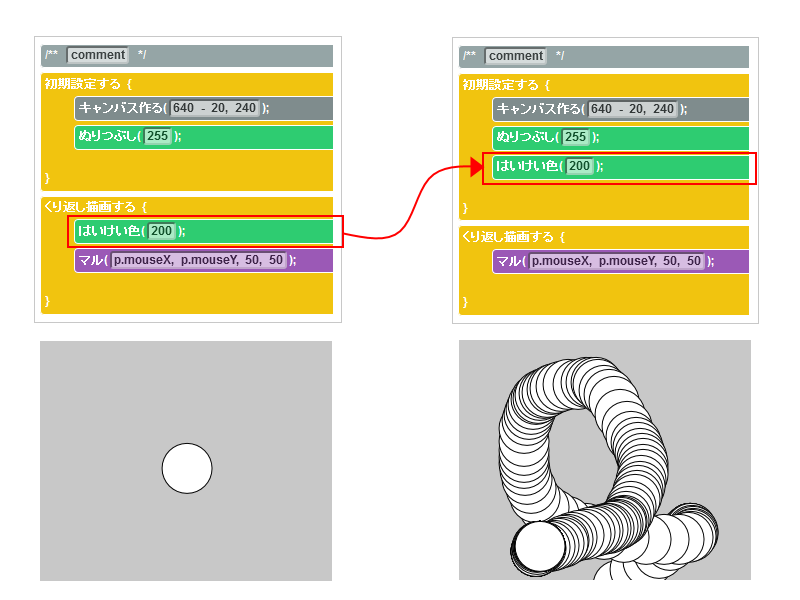
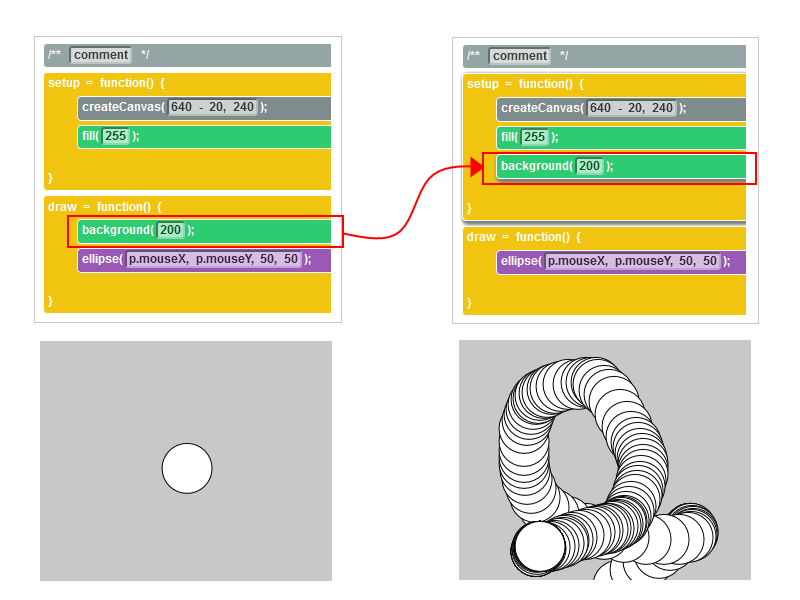
add screenshot and change some text.

Changed region(s): [[0.5625, 0.06, 0.9375, 0.54], [0.0312, 0.06, 0.4375, 0.51]]

diff --git a/example/p5.js/index.ja.html b/example/p5.js/index.ja.html
@@ -23,18 +23,21 @@
 		<div class="col_12">
 			<h3>1.このエリアで、マウスを動かしてください。</h3>
 			<div id = "p5Canvas"></div>
+			<p>下にある「停止」ボタンで、停止。「実行」ボタンで、再度動かすことができます。</p>
 		</div>
 		<div class="col_12">
 			<h3>2.「編集」ボタンで、ブロック編集できます。</h3>		
 			<ul class="button-bar">
-				<li><a id="mameEdit" href="javascript:void(0)" class="first"><i class="fa fa-pencil"></i> 編集</a></li>
-				<li><a id="mameRun" href="javascript:void(0)"><i class="fa fa-play"></i> 実行</a></li>
-				<li><a id="mameStop" href="javascript:void(0)" class="last"><i class="fa fa-stop"></i> 停止</a></li>
+				<li><a id="mameRun" href="javascript:void(0)" class="first"><i class="fa fa-play"></i> 実行</a></li>
+				<li><a id="mameStop" href="javascript:void(0)"><i class="fa fa-stop"></i> 停止</a></li>
+				<li><a id="mameEdit" href="javascript:void(0)" class="last"><i class="fa fa-pencil"></i> 編集</a></li>
 			</ul>
 			<p></p>
 			<pre id="exampleArea"></pre>
+			<p>.</p>
 			<h3>3.「はいけい色」ブロックを、"くり返し描画する"から"初期設定する"に移動してみてください。</h3>
-			<img src ="block_move.png">
+			<p>マルが連続して描かれるようになります。</p>
+			<img src ="block_move_ja.png">
 		</div>
 		<div class="col_12">
 		<ul>

diff --git a/example/p5.js/index.html b/example/p5.js/index.html
@@ -23,17 +23,20 @@
 		<div class="col_12">
 			<h3>Step 1.Move your mouse pointer on this area.</h3>
 			<div id = "p5Canvas"></div>
+			<p>You can use [Stop]button and [Run]button.</p>
 		</div>
 		<div class="col_12">
 			<h3>Step 2.Click [Edit] button for block edit mode.</h3>		
 			<ul class="button-bar">
-				<li><a id="mameEdit" href="javascript:void(0)" class="first"><i class="fa fa-pencil"></i> Edit</a></li>
-				<li><a id="mameRun" href="javascript:void(0)"><i class="fa fa-play"></i> Run</a></li>
-				<li><a id="mameStop" href="javascript:void(0)" class="last"><i class="fa fa-stop"></i> Stop</a></li>
+				<li><a id="mameRun" href="javascript:void(0)" class="first"><i class="fa fa-play"></i> Run</a></li>
+				<li><a id="mameStop" href="javascript:void(0)"><i class="fa fa-stop"></i> Stop</a></li>
+				<li><a id="mameEdit" href="javascript:void(0)" class="last"><i class="fa fa-pencil"></i> Edit</a></li>
 			</ul>
 			<p></p>
 			<pre id="exampleArea"></pre>
-		<h3>Step 3.Try to move "background" block from "draw" to "setup".</h3>	
+			<p>.</p>
+			<h3>Step 3.Try to move "background" block from "draw" to "setup".</h3>	
+			<img src ="block_move.png">
 		</div>
 		<div class="col_12">
 		<ul>
